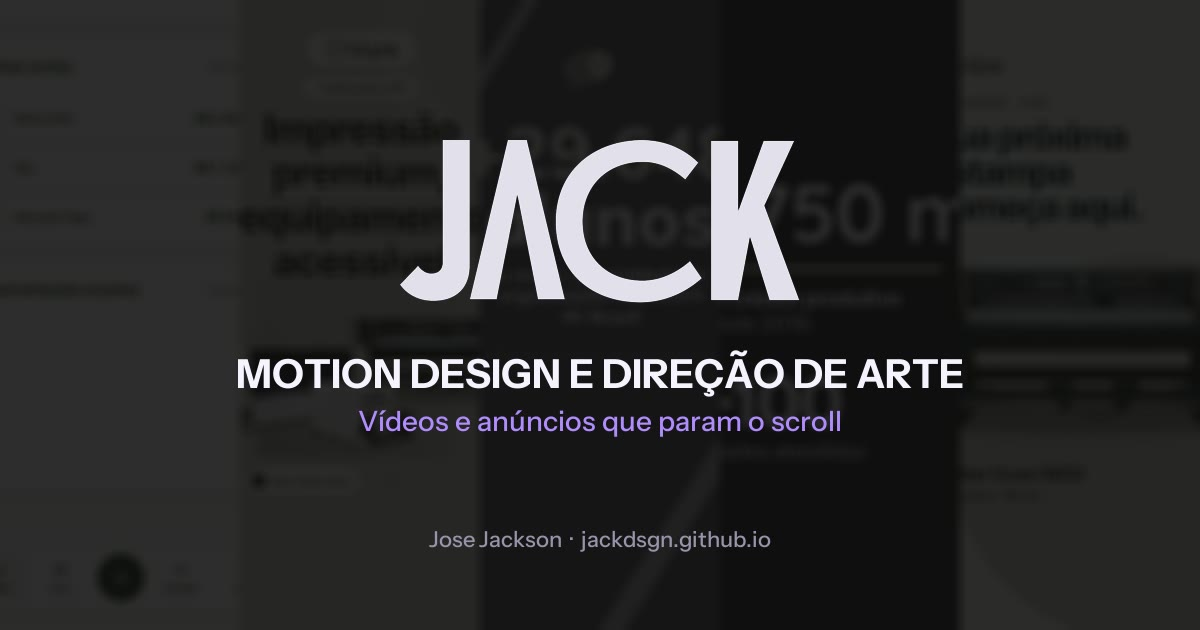
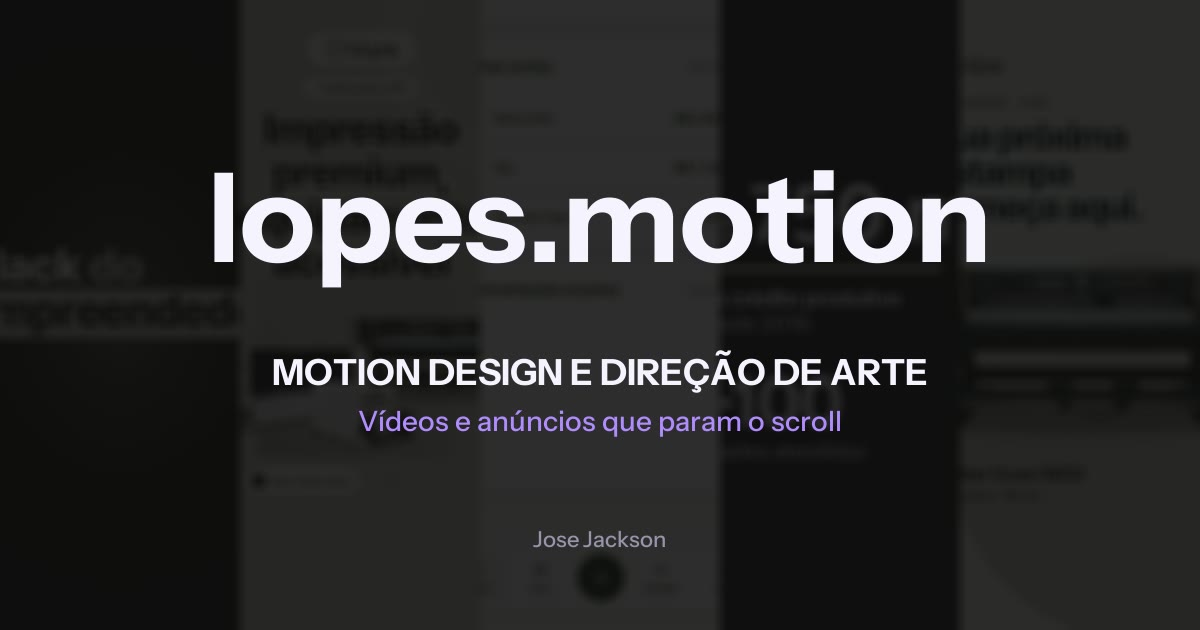
Renomeia o portfólio de motion para lopes.motion
Título, nome nas redes, selo do Sobre e imagem de compartilhamento.

diff --git a/index.html b/index.html
@@ -3,14 +3,14 @@
 <head>
 <meta charset="utf-8">
 <meta name="viewport" content="width=device-width, initial-scale=1, viewport-fit=cover">
-<title>Jose Jackson · Motion design e direção de arte | Jackdsgn</title>
+<title>lopes.motion · Motion design e direção de arte | Jose Jackson</title>
 <meta name="description" content="Vídeos e anúncios em motion design que param o scroll: animação 2D, vinhetas, vídeos de produto e brand motion. Peça seu vídeo pelo WhatsApp.">
 <link rel="canonical" href="https://jackdsgn.github.io/">
 <meta name="theme-color" content="#000000">
 <meta property="og:type" content="website">
 <meta property="og:locale" content="pt_BR">
-<meta property="og:site_name" content="Jackdsgn">
-<meta property="og:title" content="Jose Jackson · Motion design e direção de arte">
+<meta property="og:site_name" content="lopes.motion">
+<meta property="og:title" content="lopes.motion · Motion design e direção de arte">
 <meta property="og:description" content="Vídeos e anúncios em motion design para marcas e produtos. Veja os projetos e peça o seu pelo WhatsApp.">
 <meta property="og:url" content="https://jackdsgn.github.io/">
 <meta property="og:image" content="https://jackdsgn.github.io/assets/img/og.jpg">
@@ -31,7 +31,7 @@
 
 <header class="top" id="top">
   <div class="bar">
-    <a class="brand" href="#home" id="brandLogo" aria-label="Jackdsgn, voltar ao início"></a>
+    <a class="brand" href="#home" id="brandLogo" aria-label="lopes.motion, voltar ao início"></a>
     <div class="right">
       <nav class="menu" aria-label="Principal">
         <a href="#home" data-nav="home">Home</a>
@@ -131,7 +131,7 @@
       <svg class="seal" viewBox="0 0 200 200" aria-hidden="true">
         <defs><path id="sealPath" d="M100,100 m-72,0 a72,72 0 1,1 144,0 a72,72 0 1,1 -144,0"/></defs>
         <circle cx="100" cy="100" r="98" fill="var(--turbo)"/>
-        <g class="seal-ring"><text><textPath href="#sealPath" startOffset="0">JACKDSGN · MOVIMENTO COM PROPÓSITO ·</textPath></text></g>
+        <g class="seal-ring"><text><textPath href="#sealPath" startOffset="0" textLength="446" lengthAdjust="spacing">LOPES.MOTION · MOVIMENTO COM PROPÓSITO ·</textPath></text></g>
         <path d="M84 76 L128 100 L84 124 Z" fill="#834DFB" stroke="#834DFB" stroke-width="8" stroke-linejoin="round"/>
       </svg>
     </figure>

diff --git a/assets/js/analytics.js b/assets/js/analytics.js
@@ -1,4 +1,4 @@
-/* Jackdsgn · medição (Meta Pixel + Google Analytics 4)
+/* lopes.motion · medição (Meta Pixel + Google Analytics 4)
    Nada carrega antes do visitante aceitar os cookies (LGPD).
    Para ativar, preencha os IDs abaixo. Vazio = medição desligada e sem aviso de cookies. */
 const ANALYTICS = {
@@ -57,7 +57,7 @@ const ANALYTICS = {
   function pageView() {
     const p = currentProject();
     const view = p ? 'case' : (location.hash === '#sobre' ? 'sobre' : 'home');
-    if (window.gtag) window.gtag('event', 'page_view', { page_location: location.href, page_title: p ? p.title + ' | Jackdsgn' : document.title, view });
+    if (window.gtag) window.gtag('event', 'page_view', { page_location: location.href, page_title: p ? p.title + ' | lopes.motion' : document.title, view });
     if (window.fbq) window.fbq('track', 'PageView');
     if (p) window.track('view_case', { project: p.title, area: p.area, client: p.client }, 'ViewContent');
   }

diff --git a/assets/js/projects.js b/assets/js/projects.js
@@ -1,4 +1,4 @@
-/* Jackdsgn · projetos do portfólio. Para adicionar um projeto, copie um bloco e ajuste os campos. */
+/* lopes.motion · projetos do portfólio. Para adicionar um projeto, copie um bloco e ajuste os campos. */
 const PROJECTS=[
  {slug:'blips-black',title:'Blips · Black do Empreendedor',area:'Ad de campanha · E-commerce',client:'Blips',year:'2026',service:'Motion design · UI animation · Direção de arte',category:'Crédito e equipamentos',
   media:[{v:'blackemp',full:'blackemp-full',ar:'16/9',fmt:'16:9'},{v:'blackemp-v',full:'blackemp-v-full',ar:'9/16',fmt:'9:16'}],ai:false,

diff --git a/404.html b/404.html
@@ -3,7 +3,7 @@
 <head>
 <meta charset="utf-8">
 <meta name="viewport" content="width=device-width, initial-scale=1">
-<title>Página não encontrada | Jackdsgn</title>
+<title>Página não encontrada | lopes.motion</title>
 <meta http-equiv="refresh" content="3; url=/">
 <link rel="icon" href="/favicon.svg" type="image/svg+xml">
 <style>

diff --git a/assets/js/site.js b/assets/js/site.js
@@ -1,4 +1,4 @@
-/* Jackdsgn · site · comportamento */
+/* lopes.motion · site · comportamento */
 const WA_NUM='5534984259509';
 const WA_MSG={
   hero:'Oi, Jack! Vi seu portfólio e quero fazer um vídeo. Pode me passar mais detalhes?',

diff --git a/assets/css/site.css b/assets/css/site.css
@@ -1,4 +1,4 @@
-/* Jackdsgn · site · estilos */
+/* lopes.motion · site · estilos */
 /* Layout: palco preto absoluto, mídia como protagonista; coluna 560 para texto editorial, 1200 para cases */
 :root{
   color-scheme:dark;

diff --git a/README.md b/README.md
@@ -1,6 +1,6 @@
 # jackdsgn.github.io
 
-Portfólio de motion design de Jose Jackson (Jackdsgn), publicado no GitHub Pages em https://jackdsgn.github.io/.
+Portfólio de motion design de Jose Jackson, com a marca **lopes.motion**, publicado no GitHub Pages em https://jackdsgn.github.io/.
 
 Site estático, sem etapa de build: HTML, CSS e JavaScript puros. O GitHub Pages publica a branch `main` direto da raiz.
 
